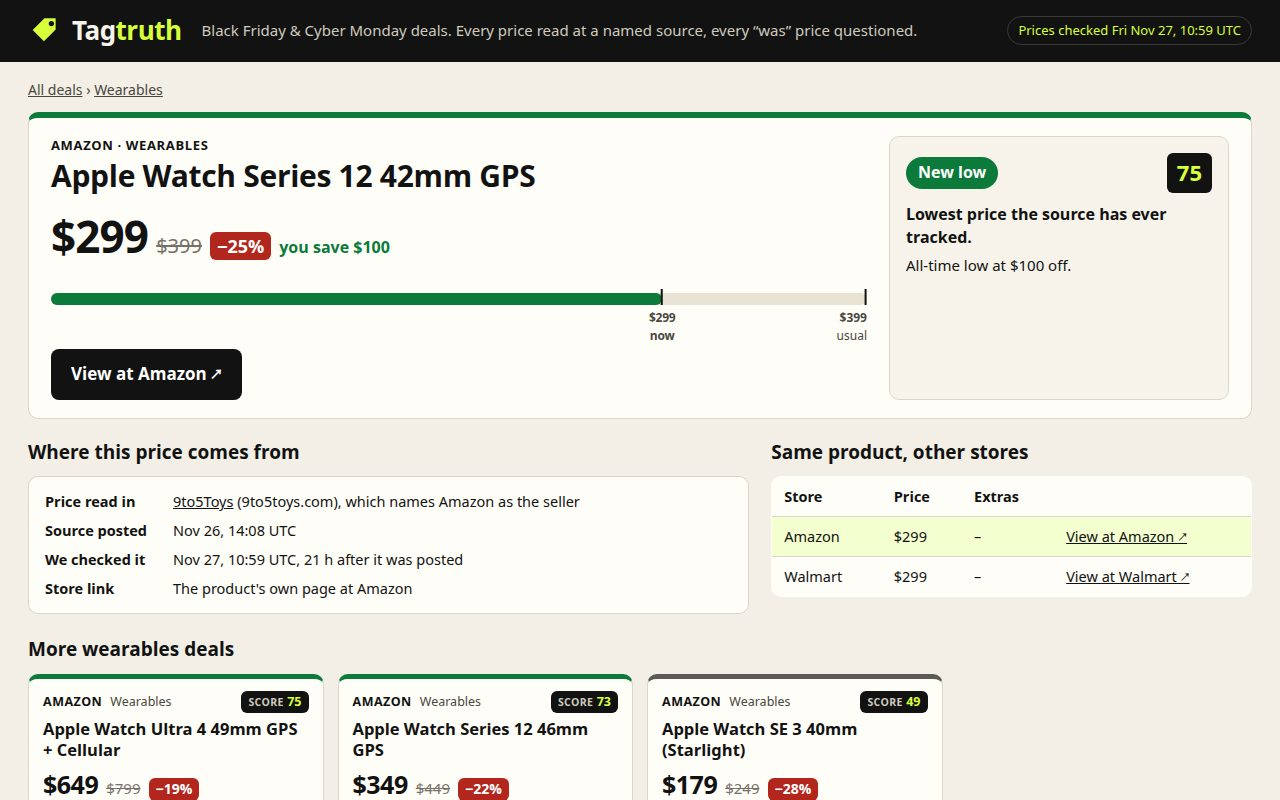
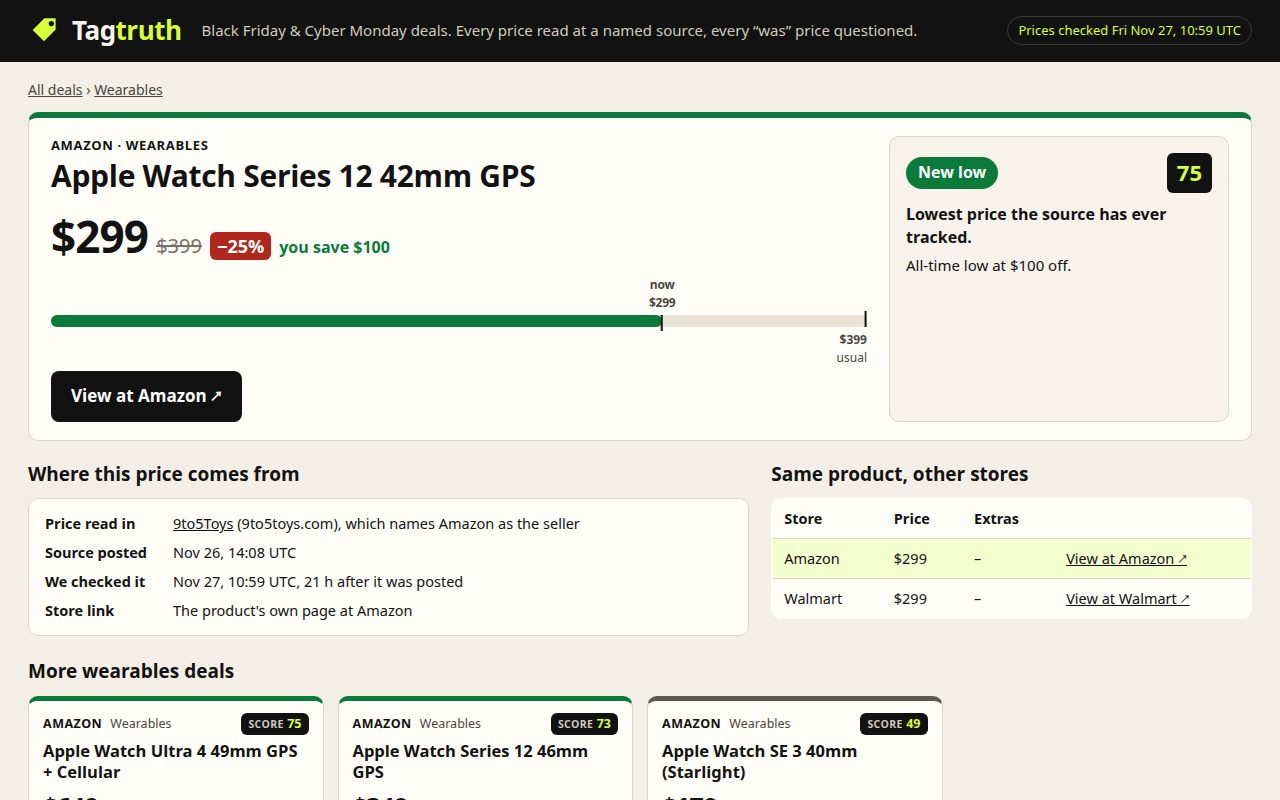
Honest-evidence pass, price scale labels that never overlap, README
Fold 8 512GB no longer claims a record low the source gave only for the 256GB;
the sale-price label sits above the price scale so it cannot collide with the
going-rate label; README documents how deals were read and checked.

Changed region(s): [[0.0, 0.3438, 0.75, 1.0], [0.5938, 0.5312, 1.0, 0.7812]]

diff --git a/app/data/deals.js b/app/data/deals.js
@@ -38,7 +38,7 @@ export const deals = [
   { id: 'ipad-mini-oled', name: 'Apple iPad mini OLED (A20 Pro, 128GB)', cat: 'Phones & tablets', store: 'Amazon', price: 599, was: 699, url: 'https://www.amazon.com/dp/B0HPC1JLCQ', link: 'product', src: 'hub', verdict: 'low', why: 'All-time low at $100 off; the source warns it is selling out.', confirm: { src: 'techbargains', price: 599, at: '2026-11-26T15:33:00Z' } },
   { id: 'ipad-pro-11-m5', name: 'Apple iPad Pro 11" M5 (512GB)', cat: 'Phones & tablets', store: 'Amazon', price: 1299, was: 1399, url: 'https://www.amazon.com/dp/B0FWD1LZBB', link: 'product', src: 'hub', verdict: 'fair', why: 'A modest $100 off; no history given.' },
   { id: 'galaxy-z-fold-8-256', name: 'Samsung Galaxy Z Fold 8 (256GB)', cat: 'Phones & tablets', store: 'Amazon', price: 1550, was: 1900, url: 'https://www.amazon.com/dp/B0H12M2TY4', link: 'product', src: 'hub', verdict: 'low', why: 'The lowest price Amazon has ever offered on this phone, per 9to5Toys.' },
-  { id: 'galaxy-z-fold-8-512', name: 'Samsung Galaxy Z Fold 8 (512GB)', cat: 'Phones & tablets', store: 'Amazon', price: 1750, was: 2100, url: 'https://www.amazon.com/dp/B0H12LFV9T', link: 'product', src: 'hub', verdict: 'low', why: 'Same record low as the 256GB model.' },
+  { id: 'galaxy-z-fold-8-512', name: 'Samsung Galaxy Z Fold 8 (512GB)', cat: 'Phones & tablets', store: 'Amazon', price: 1750, was: 2100, url: 'https://www.amazon.com/dp/B0H12LFV9T', link: 'product', src: 'hub', verdict: 'fair', why: '$350 off list, beside the 256GB model\'s record low; no history given for this size.' },
   { id: 'galaxy-s26-ultra-256', name: 'Samsung Galaxy S26 Ultra (256GB, unlocked)', cat: 'Phones & tablets', store: 'Amazon', price: 950, was: 1400, url: 'https://www.amazon.com/dp/B0G4SWDH8P', link: 'product', src: 'hub', verdict: 'fair', why: '$450 off list; no history given.', terms: 'TechBargains lists it with an extra $100 trade-in offer.', confirm: { src: 'techbargains', price: 949.99, at: '2026-11-27T08:43:00Z' } },
   { id: 'galaxy-s26-ultra-512', name: 'Samsung Galaxy S26 Ultra (512GB, unlocked)', cat: 'Phones & tablets', store: 'Amazon', price: 1150, was: 1600, url: 'https://www.amazon.com/dp/B0G4SWN34T', link: 'product', src: 'hub', verdict: 'fair', why: '$450 off list; no history given.' },
   { id: 'iphone-air-256', name: 'Apple iPhone Air (256GB, unlocked)', cat: 'Phones & tablets', store: 'Best Buy', price: 800, was: 1099, url: 'https://www.bestbuy.com/product/apple-iphone-air-256gb-unlocked-space-black/JJGCQLRKC2', link: 'product', src: 'hub', verdict: 'fair', why: '$299 off list; no history given.' },

diff --git a/app/style.css b/app/style.css
@@ -125,10 +125,12 @@ main { max-width: 1320px; margin: 0 auto; padding: 18px 28px 32px; }
 .prices.big .was { font-size: 20px; }
 .prices.big .off { font-size: 18px; }
 .saved { font-weight: 700; color: var(--low); }
-.scale { position: relative; height: 12px; margin: 24px 0 44px; background: #e9e3d6; border-radius: 6px; }
+.scale { position: relative; height: 12px; margin: 46px 0 44px; background: #e9e3d6; border-radius: 6px; }
 .scale .fill { position: absolute; inset: 0 auto 0 0; background: var(--vc); border-radius: 6px; }
 .mark { position: absolute; top: 16px; transform: translateX(-50%); display: flex; flex-direction: column; align-items: center; font-size: 12px; color: var(--ink-2); white-space: nowrap; }
 .mark::before { content: ''; position: absolute; top: -20px; width: 2px; height: 16px; background: var(--ink); }
+.mark.now { top: auto; bottom: 16px; flex-direction: column-reverse; }
+.mark.now::before { top: auto; bottom: -20px; }
 .mark.was { transform: translateX(-100%); align-items: flex-end; }
 .mark.was::before { right: 0; }
 .mark.fair b { color: var(--inflated); }

diff --git a/README.md b/README.md
@@ -5,3 +5,40 @@
 [![reward](https://make.fun/badge/black-friday-deal-finder-01/aditisstillalive/mkfn-black_friday_deals/reward.svg)](https://make.fun/bounty/black-friday-deal-finder-01)
 
 An entry for the make.fun bounty [Build the best real Black Friday deal finder](https://make.fun/bounty/black-friday-deal-finder-01).
+
+**Tagtruth** is a Black Friday and Cyber Monday deal finder for shoppers: 71 deals across 11 categories and 5 stores, each with its product, store, a link to it at that store, sale price, usual price, discount, where the price was read and when we checked it, plus an honest verdict on whether it is really a deal.
+
+![Tagtruth finder](screenshots/1-finder.jpg)
+
+## How the deals were checked
+
+On 2026-11-27 (Black Friday), between 10:58 and 11:04 UTC, we read deal posts that name the store and the price there, mostly [9to5Toys](https://9to5toys.com), and cross-checked them against [TechBargains](https://www.techbargains.com) where both listed the same item. Store pages themselves (Amazon, Walmart) answer automated reads with a bot check, so the deals sources are the price record. Every deal keeps:
+
+- the **source post** and the time it went up, and the **time we read it**; reports older than 48 hours are flagged;
+- the **store link**: the product's own page where the source linked to it (affiliate tags stripped), otherwise a store search for the exact product name, labelled as such;
+- a **verdict** from the price history the source reports: *New low*, *Near best*, *Fair cut*, *Routine sale*, or *Inflated "was"*. Where the source says an item has really been selling for less than its "was" price, the card shows the **real** discount against that going rate.
+
+Where two sources disagreed on a price (the M5 MacBook Air), the page says so and shows the higher one.
+
+## Using it
+
+- Search by product, brand, store or category; filter by category, store, minimum discount and verdict (every chip shows how many deals it leaves); sort by a verdict-weighted score, % off, real % off, dollars saved or price.
+- Every view is in the address (`#/?cat=Audio&off=30`), so it can be bookmarked or shared. `#/deal/<id>` is a deal's page: price scale, evidence, source trail, the same product at other stores, and related deals.
+
+## Layout
+
+```
+app/index.html        page shell
+app/main.js           routing and wiring of the finder
+app/data/deals.js     the deals; app/data/sources.js where and when each price was read
+app/lib/              format.js (money, times), rating.js (discounts, verdicts, score), query.js (search, filters, sort)
+app/ui/               list.js, controls.js, card.js, detail.js (loaded on demand)
+main.ts               hands the site in with the kit's dossier builder
+tools/shoot.mjs       takes the screenshots in shots.json with Playwright
+```
+
+Run it with `node serve.ts` and open http://localhost:8080. No build step and no network requests: the site is static files under `app/`.
+
+## License
+
+MIT
